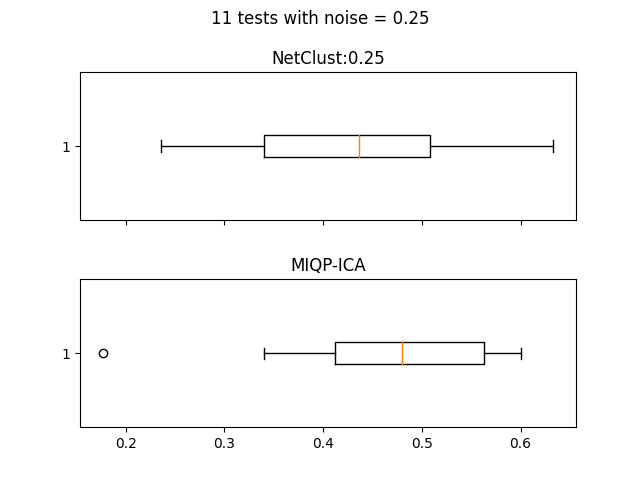
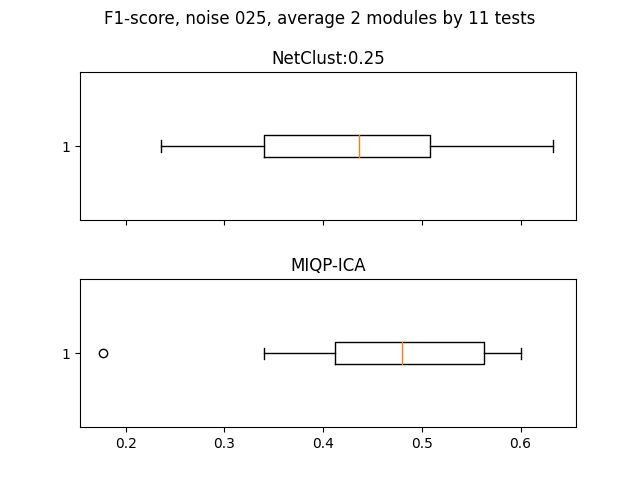
small fix

Changed region(s): [[0.1562, 0.0, 0.8438, 0.0625]]

diff --git a/fast_ica/main.py b/fast_ica/main.py
@@ -39,9 +39,9 @@ def solve():
     print(modules.shape)
 
 
-def draw(data1, data2, name1, name2):
+def draw(data1, data2, name1, name2, fullname):
     fig, (ax1, ax2) = plt.subplots(nrows=2, sharex='all')
-    fig.suptitle("11 tests with noise = 0.25")
+    fig.suptitle(fullname)
     plt.subplots_adjust(top=0.85, hspace=0.4)
     ax1.set_title(name1)
     ax1.boxplot(data1, vert=0)
@@ -86,9 +86,9 @@ def precalculate_data():
     data_my05 = np.array(data_my05)
     print(data_nc05.shape, " ", data_my05.shape)
 
-    draw(data_nc025, data_my025, 'NetClust:0.25', 'MIQP-ICA')
-    draw(data_nc04, data_my04, 'NetClust:0.4', 'MIQP-ICA')
-    draw(data_nc05, data_my05, 'NetClust:0.5', 'MIQP-ICA')
+    draw(data_nc025, data_my025, 'NetClust:0.25', 'MIQP-ICA', 'F1-score, noise 025, average 2 modules by 11 tests')
+    draw(data_nc04, data_my04, 'NetClust:0.4', 'MIQP-ICA', 'F1-score, noise 025, average 2 modules by 11 tests')
+    draw(data_nc05, data_my05, 'NetClust:0.5', 'MIQP-ICA', 'F1-score, noise 025, average 2 modules by 11 tests')
 
 
 if __name__ == '__main__':
